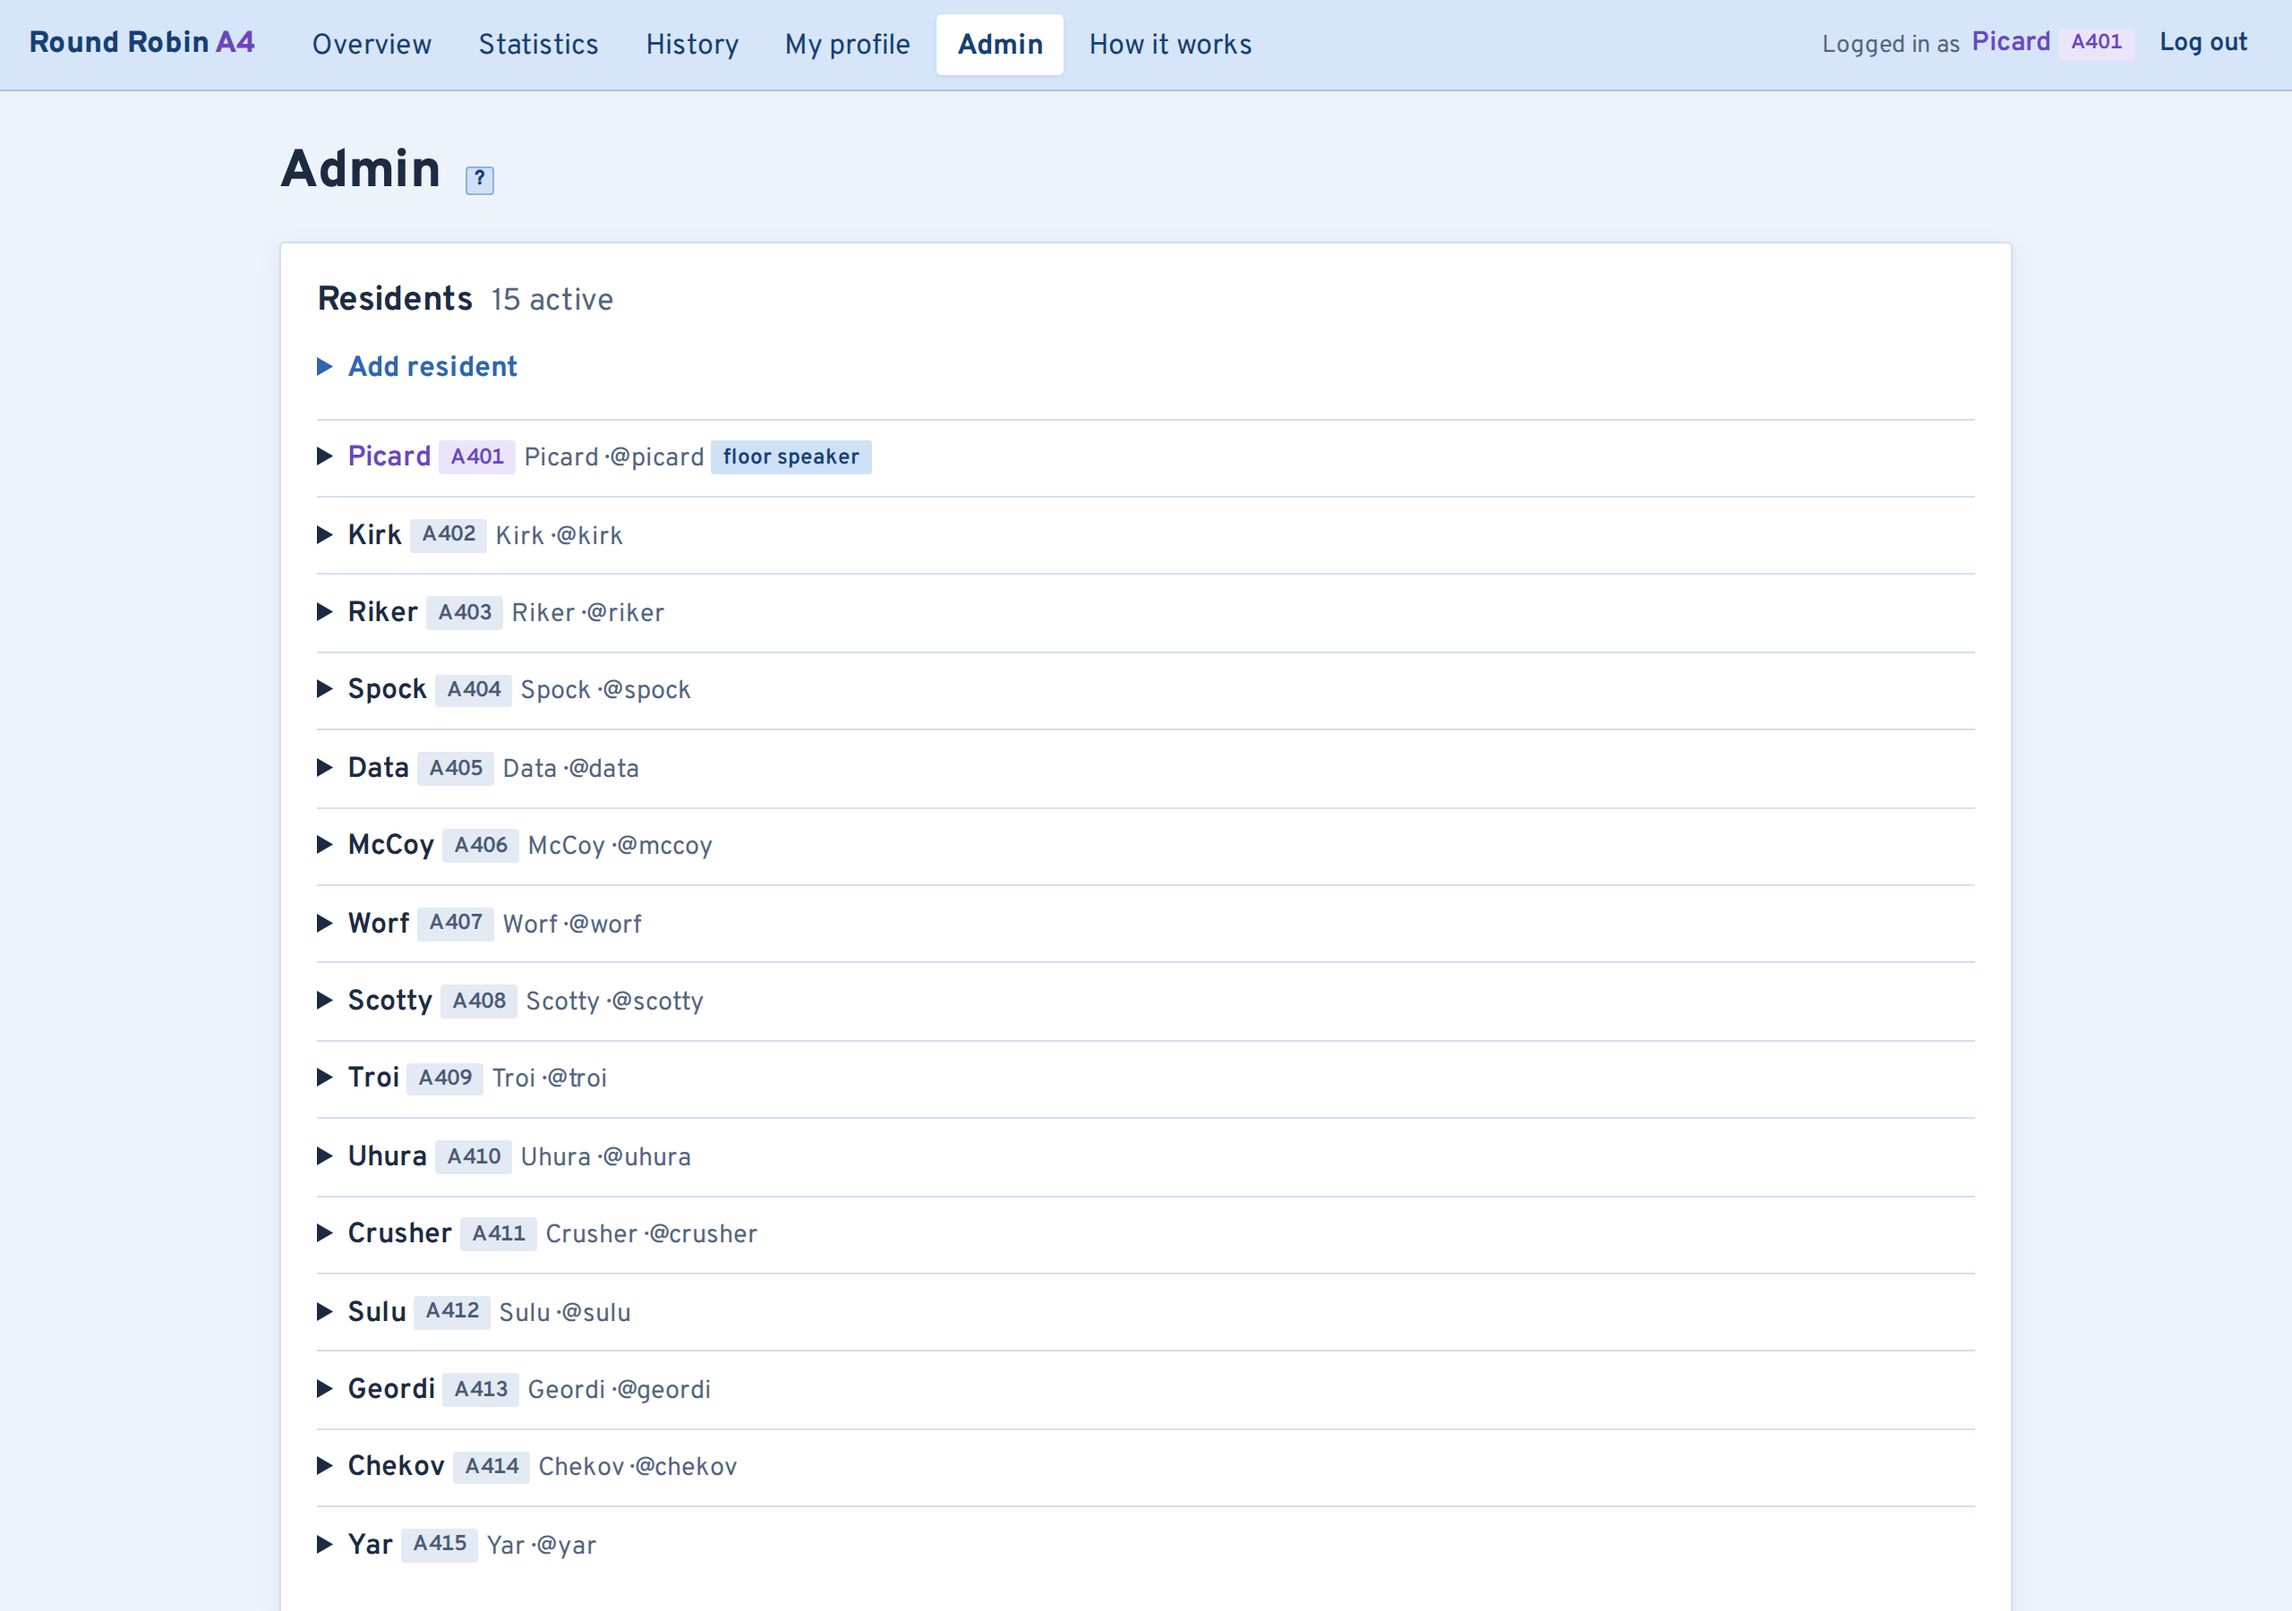
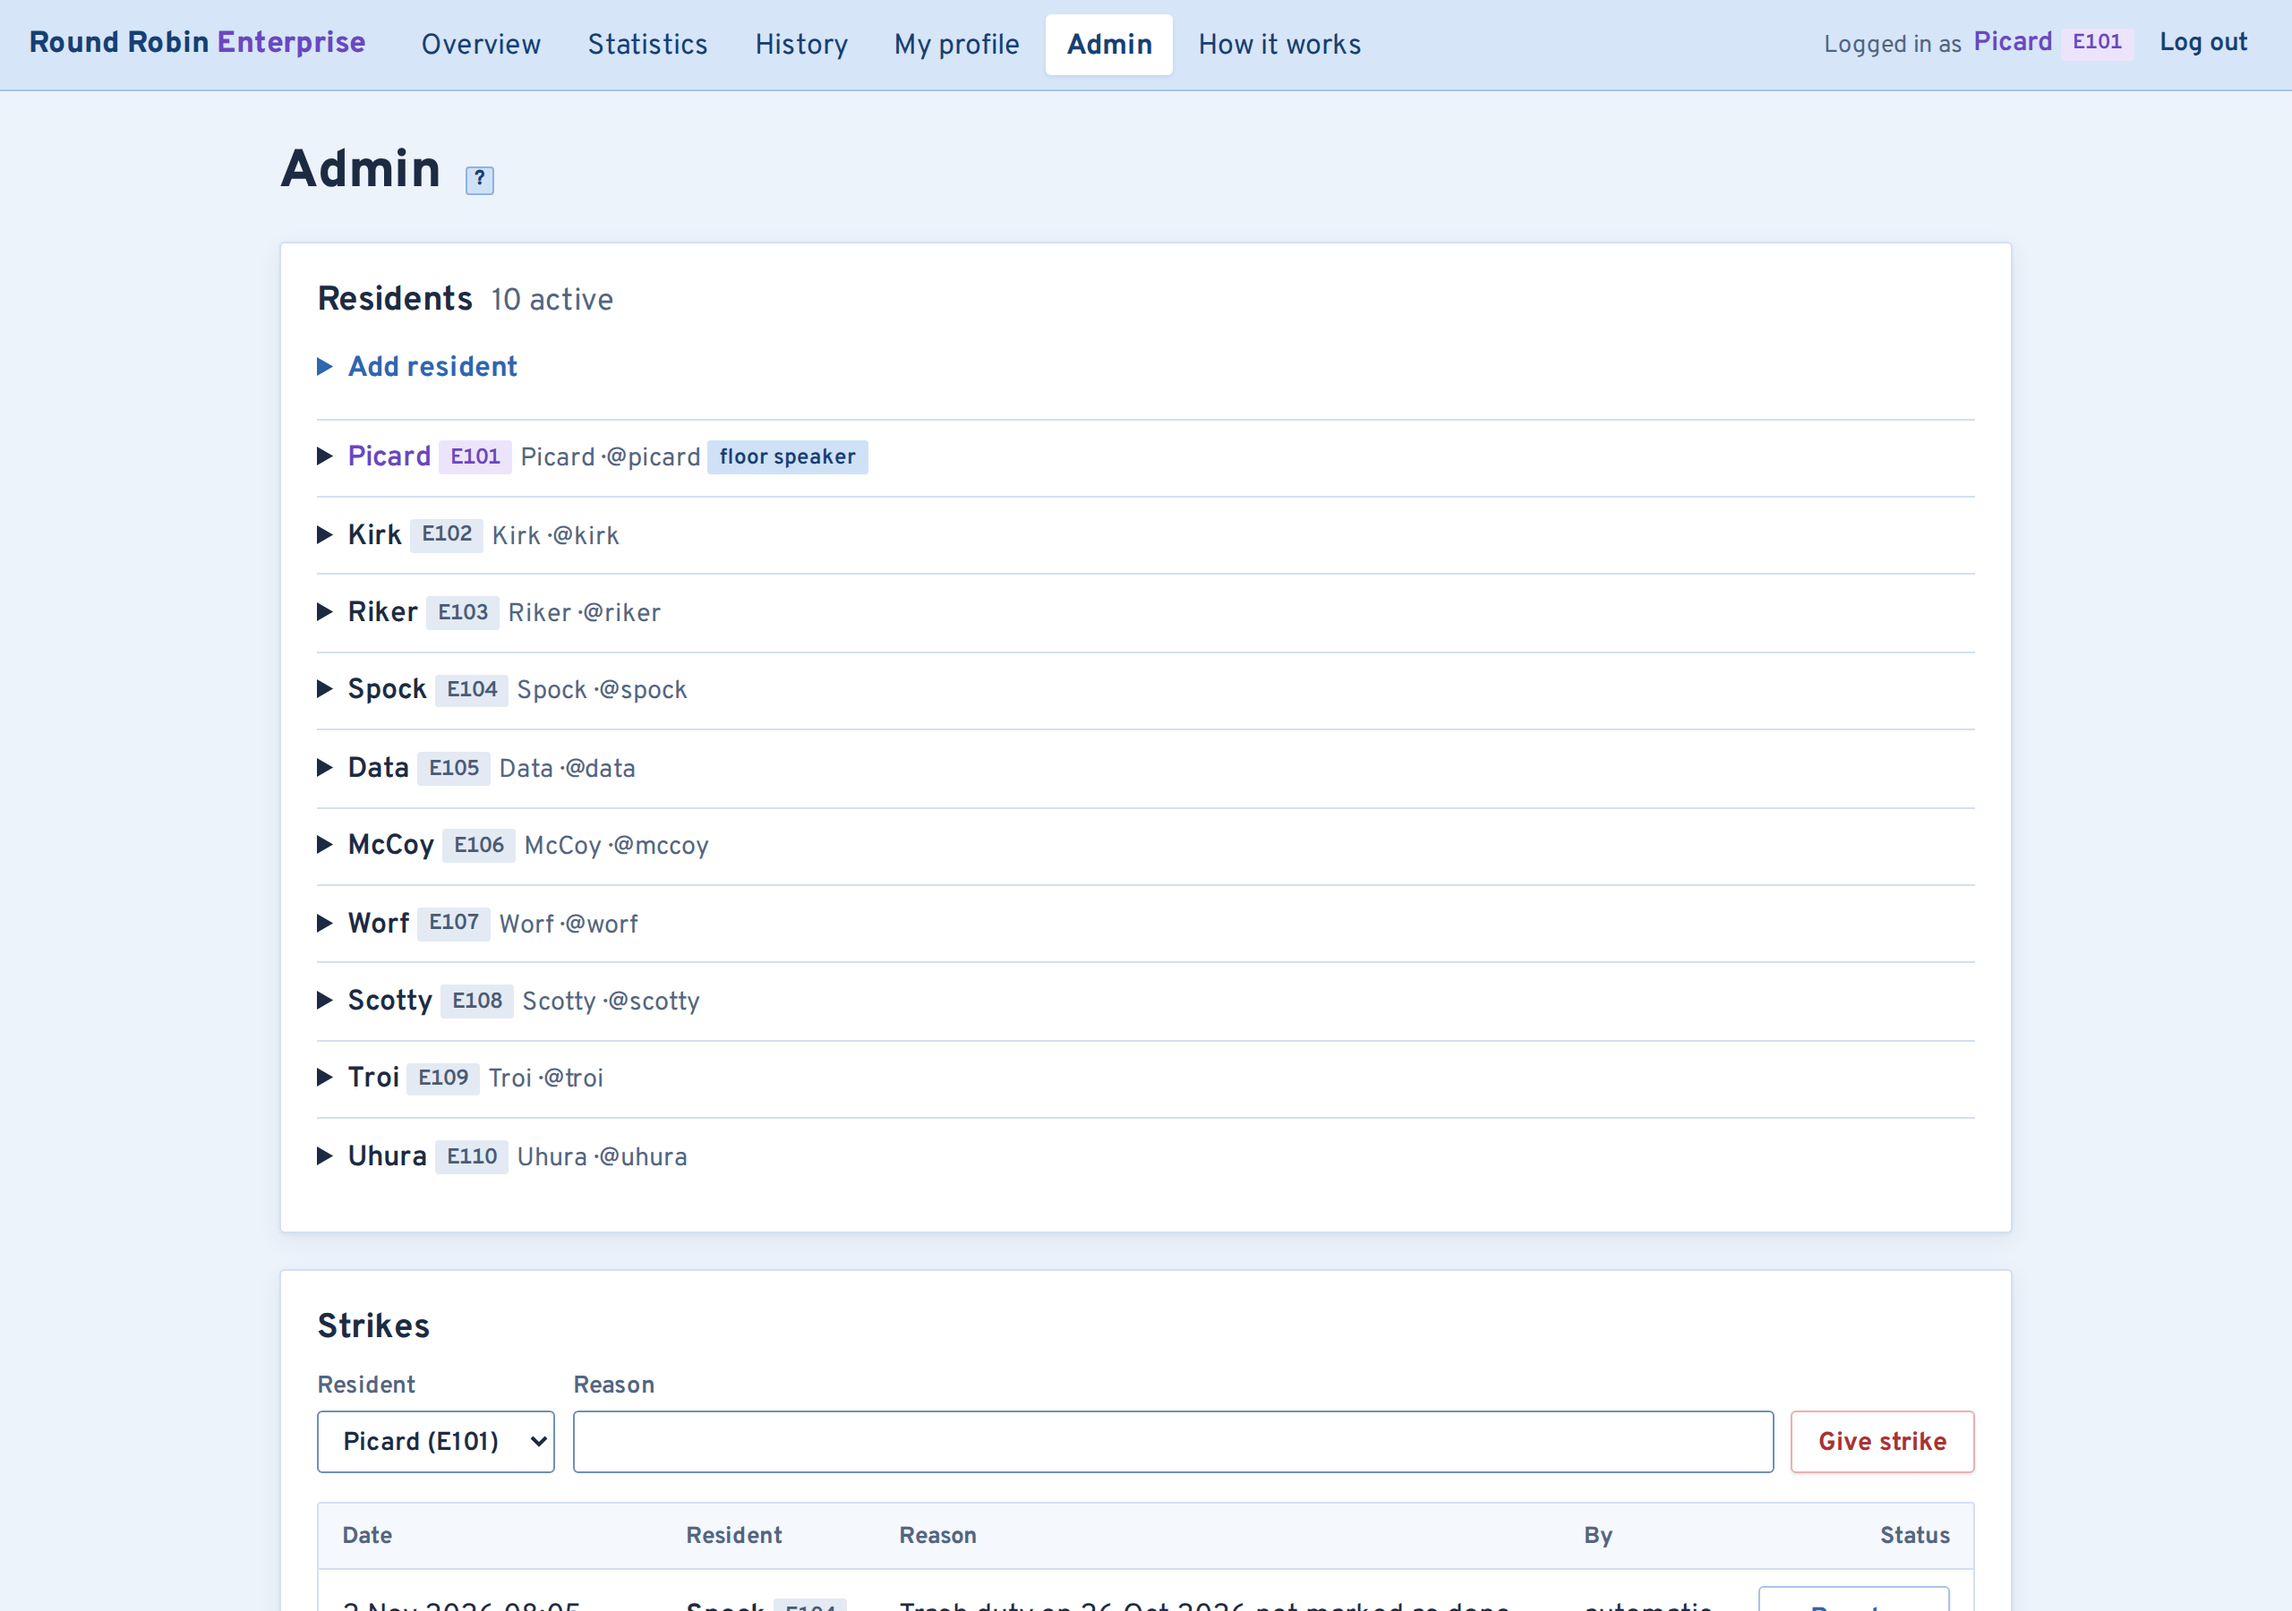
Add a FLOOR_NAME setting; seed 10 residents on the Enterprise
The header and page title show "Round Robin <FLOOR_NAME>" (default A4).
Test residents: 10 by default, in rooms E101-E110. The README screenshots
are retaken with FLOOR_NAME=Enterprise.

diff --git a/app/templates/base.html b/app/templates/base.html
@@ -3,7 +3,7 @@
 <head>
   <meta charset="utf-8">
   <meta name="viewport" content="width=device-width, initial-scale=1">
-  <title>{% block title %}Round Robin A4{% endblock %}</title>
+  <title>{% block title %}Round Robin {{ floor_name }}{% endblock %}</title>
   <link rel="preload" href="/static/fonts/overpass-latin-wght.woff2" as="font" type="font/woff2" crossorigin>
   <link rel="stylesheet" href="/static/style.css?v={{ css_version }}">
   <script src="/static/htmx.min.js" defer></script>
@@ -12,7 +12,7 @@
   {% set path = request.url.path %}
   {% macro nav_link(href, label) %}<a href="{{ href }}"{% if path == href or (href != "/" and path.startswith(href ~ "/")) %} aria-current="page"{% endif %}>{{ label }}</a>{% endmacro %}
   <nav>
-    <a class="brand" href="/">Round Robin <span class="brand-floor">A4</span></a>
+    <a class="brand" href="/">Round Robin <span class="brand-floor">{{ floor_name }}</span></a>
     <div class="nav-links">
       {{ nav_link("/", "Overview") }}
       {{ nav_link("/stats", "Statistics") }}

diff --git a/scripts/seed.py b/scripts/seed.py
@@ -1,6 +1,6 @@
 """Seed the database with test residents, optionally with a simulated history.
 
-    uv run python scripts/seed.py                  # 15 residents
+    uv run python scripts/seed.py                  # 10 residents
     uv run python scripts/seed.py -n 20 --password test1234
     uv run python scripts/seed.py --days 30        # plus a simulated month of duties
 
@@ -191,7 +191,7 @@ async def main(count: int, password: str, days: int, seed: int | None) -> None:
             await users.create(
                 session,
                 name=name,
-                room_number=f"A4{i + 1:02d}",
+                room_number=f"E1{i + 1:02d}",
                 username=username,
                 password=password,
             )
@@ -207,7 +207,7 @@ async def main(count: int, password: str, days: int, seed: int | None) -> None:
 
 if __name__ == "__main__":
     parser = argparse.ArgumentParser(description=__doc__.splitlines()[0])
-    parser.add_argument("-n", "--count", type=int, default=15)
+    parser.add_argument("-n", "--count", type=int, default=10)
     parser.add_argument("--password", default="passwort123")
     parser.add_argument("--days", type=int, default=0, help="simulate this many past days")
     parser.add_argument("--random-seed", type=int, help="same number, same history")

diff --git a/app/config.py b/app/config.py
@@ -18,6 +18,8 @@ class Settings(BaseSettings):
     # Signs the login cookie: whoever knows it can log in as anyone. No usable default on purpose.
     secret_key: str = ""
     timezone: str = "Europe/Berlin"
+    # Shown in the header and page title: "Round Robin <floor_name>".
+    floor_name: str = "A4"
     # A duty must be marked done by this hour, `deadline_days_after` days after it ended.
     # Each day's (on Monday also the week's) potential drivers are chosen at this hour too,
     # right after the previous duty's deadline, so only one duty is ever open at a time.

diff --git a/app/web.py b/app/web.py
@@ -67,6 +67,7 @@ templates.env.globals["help_link"] = help_link
 templates.env.globals["Duty"] = Duty
 templates.env.globals["Status"] = Status
 templates.env.globals["strike_threshold"] = settings.strike_threshold
+templates.env.globals["floor_name"] = settings.floor_name
 templates.env.globals["min_password_length"] = auth.MIN_PASSWORD_LENGTH
 # Appended to the stylesheet URL, so browsers load it again after it changed instead of
 # keeping an old copy from their cache.

diff --git a/app/main.py b/app/main.py
@@ -46,7 +46,7 @@ async def lifespan(app: FastAPI):
         scheduler.shutdown()
 
 
-app = FastAPI(title="Round Robin A4", lifespan=lifespan)
+app = FastAPI(title=f"Round Robin {settings.floor_name}", lifespan=lifespan)
 app.add_middleware(
     SessionMiddleware,
     secret_key=settings.secret_key,

diff --git a/README.md b/README.md
@@ -94,6 +94,7 @@ In `.env`, see `.env.example`.
 | `POSTGRES_PASSWORD` | `a4` | Database password. Use a random one on a server. |
 | `DATABASE_URL` | local database | Only needed outside Docker. |
 | `TIMEZONE` | `Europe/Berlin` | Time zone for dates and deadlines. |
+| `FLOOR_NAME` | `A4` | Floor name in the header ("Round Robin A4"). |
 | `DEADLINE_HOUR` | `8` | Deadline hour …; the next people are chosen right after it. |
 | `DEADLINE_DAYS_AFTER` | `1` | … this many days after the duty ends. |
 | `KITCHEN_PEOPLE_PER_DAY` | `2` | People per kitchen duty. |
